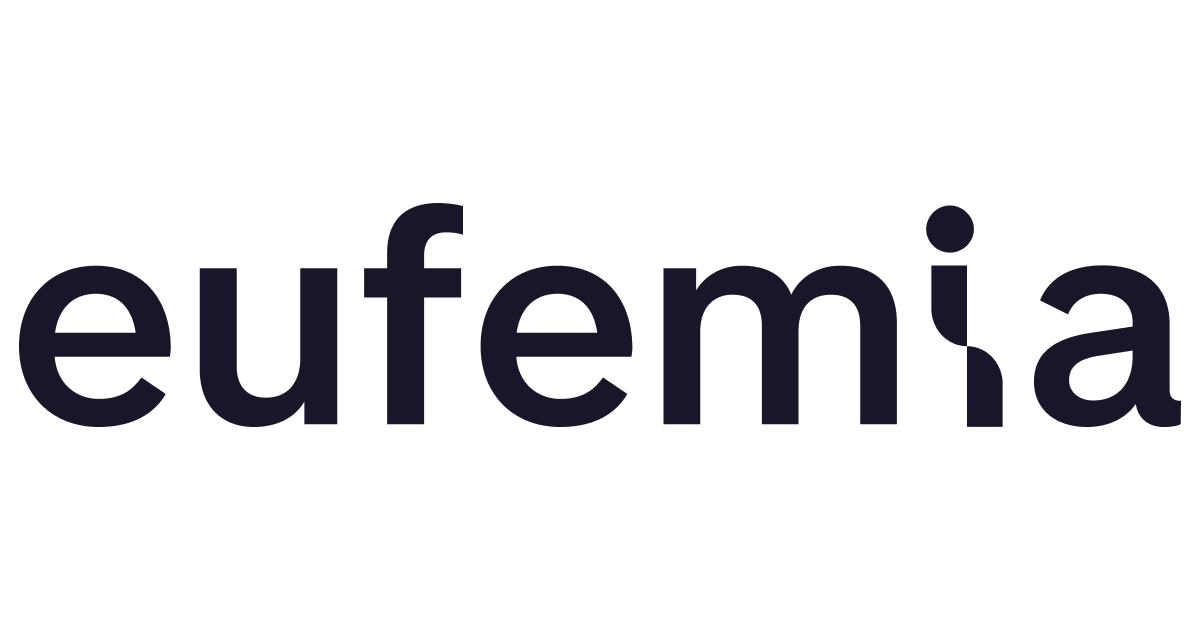
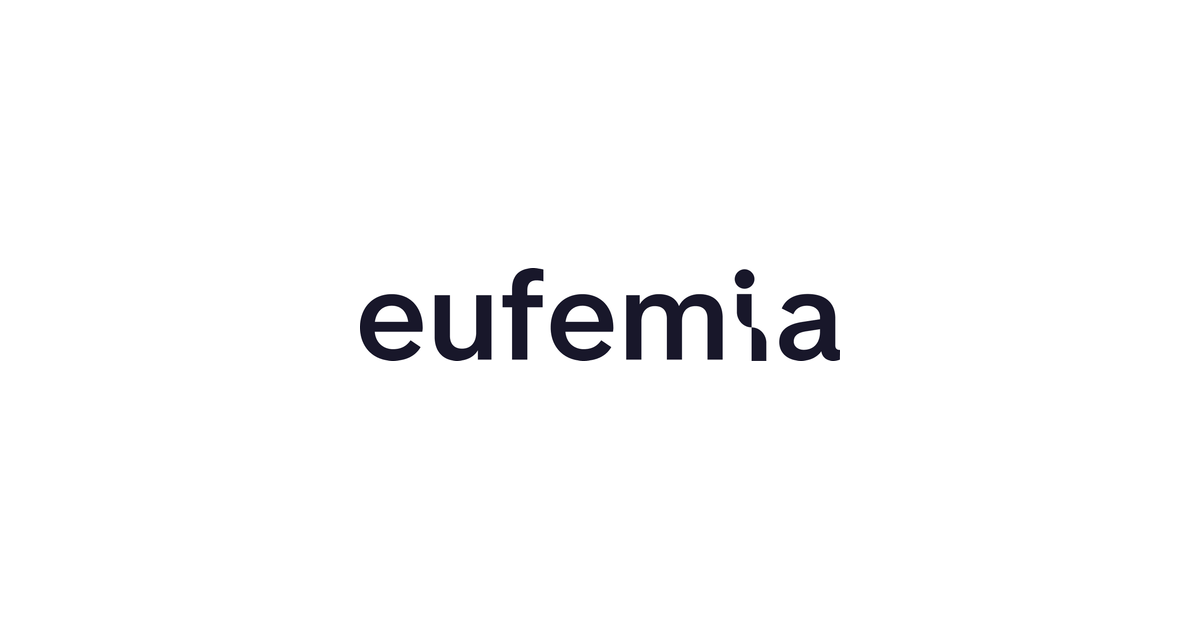
Restore the Portal default social preview image

Changed region(s): [[0.0, 0.3016, 0.9867, 0.6937]]

diff --git a/packages/dnb-design-system-portal/vite/__tests__/prod/prerender-utils.test.ts b/packages/dnb-design-system-portal/vite/__tests__/prod/prerender-utils.test.ts
@@ -691,7 +691,7 @@ describe('prerender-utils', () => {
       expect(result).toContain('Eufemia Design System is the go-to place')
     })
 
-    it('omits images on pages without a screenshot', () => {
+    it('uses the default image on pages without a screenshot', () => {
       const result = injectHtml(
         template,
         '<h1>Guide</h1>',
@@ -703,10 +703,12 @@ describe('prerender-utils', () => {
           description: 'Helpful guidance.',
         }
       )
-      expect(result).not.toContain('property="og:image"')
-      expect(result).not.toContain('name="twitter:image"')
+      expect(result).toContain(
+        'property="og:image" content="https://eufemia.dnb.no/dnb/og-image.png?v=2"'
+      )
+      expect(result).toContain('name="twitter:image"')
       expect(result).not.toContain('twitter:label')
-      expect(result).not.toContain('name="twitter:card"')
+      expect(result).toContain('content="summary_large_image"')
       expect(result).toContain(
         '<meta name="twitter:description" content="Helpful guidance.">'
       )

diff --git a/packages/dnb-design-system-portal/vite/client/index.html b/packages/dnb-design-system-portal/vite/client/index.html
@@ -7,7 +7,7 @@
   <title id="head-title">Eufemia Portal (Vite Dev)</title>
   <meta id="head-description" name="description"
     content="Eufemia Design System is the go-to place for all who has to design, develop and make digital WEB applications for DNB." />
-  <link rel="icon" type="image/png" sizes="64x64" href="/favicon.png" />
+  <link rel="icon" type="image/svg+xml" href="/favicon.svg" />
   <link rel="apple-touch-icon" sizes="180x180" href="/dnb/apple-touch-icon.png" />
 </head>
 

diff --git a/packages/dnb-design-system-portal/vite/prod/prerender-utils.ts b/packages/dnb-design-system-portal/vite/prod/prerender-utils.ts
@@ -362,7 +362,7 @@ export function injectHtml(
       `<meta property="og:title" content="${formattedTitle}">`,
       `<meta property="og:description" content="${desc}">`,
       `<meta property="og:url" content="${fullUrl}">`,
-      ...socialImageTags(meta.url, socialImages),
+      ...socialImageTags(meta.url, socialImages, siteUrl),
       ...socialDetailTags(
         meta.title ? meta.title + ' | Eufemia' : 'Eufemia',
         meta.description || defaultDescription

diff --git a/packages/dnb-design-system-portal/scripts/og-images/README.md b/packages/dnb-design-system-portal/scripts/og-images/README.md
@@ -1,6 +1,6 @@
 # Portal social images
 
-Component, extension and element pages with a visible, compact live demo are eligible. The Demos tab is preferred when available. Mark one ComponentBox with socialPreview to choose its specimen explicitly. Otherwise, the first demo is used. The selected demo is tried at compact, wider and native widths before it is rejected. Selection never falls through to a later demo or a nested field group. Hidden or clipped examples get no image and are reported in the generator output. Choose a populated example explicitly for Value pages, or a suitable static example for animated components. Tabs reuse their parent image.
+Component, extension and element pages with a visible, compact live demo are eligible. The Demos tab is preferred when available. Mark one ComponentBox with socialPreview to choose its specimen explicitly. Otherwise, the first demo is used. The selected demo is tried at compact, wider and native widths before it is rejected. Selection never falls through to a later demo or a nested field group. Hidden or clipped examples get no screenshot and are reported in the generator output. Choose a populated example explicitly for Value pages, or a suitable static example for animated components. Tabs reuse their parent image.
 
     <ComponentBox socialPreview>
       <Button text="Continue" />
@@ -10,7 +10,7 @@ Use socialPreview="stack" for a horizontal flex group that should stack only in 
 
 Only one demo per page may be marked. Multiple markers are reported as an error. Reordering other examples does not change an explicitly marked preview.
 
-Pages provide their title and description through Open Graph and Twitter Card metadata. An image is included only when a real component screenshot is available. Other pages have text previews. No logo fallback or extra label/value fields are emitted.
+Pages provide their title and description through Open Graph and Twitter Card metadata. Pages with a component screenshot use it. Other pages use the shared Eufemia wordmark at /dnb/og-image.png. The 1200 × 630 fallback keeps its 480px-wide wordmark centered for square and landscape crops. The fallback is a static Portal asset, so it changes with normal Portal deployments and does not need weekly generation. No extra label/value fields are emitted.
 
 Demos are captured at 4× resolution. Unused outer space is trimmed. Screenshots are centered on a 1200 × 630 canvas with the light demo grid, with the complete specimen inside a central 534 × 534 area. This retains the specimen in centered crops from 1:1 through 2:1. Receiving apps control the actual crop. Small specimens can grow up to 2× their normal size in a 600px-wide preview; large specimens shrink proportionally. Transparent captures preserve the component over the grid, including its opaque surfaces. PNGs are optimized losslessly.
 
@@ -20,7 +20,7 @@ Generated PNGs and captures are not committed to the code branch or an assets br
 
 The CDN catalogue at /og/manifest.json has a short cache lifetime. PNGs use content hashes and old image URLs are retained. The publisher uploads PNGs with a one-year immutable cache policy. The internal GitHub Enterprise assets repository publishes through AWS OIDC. Only its restore and publish jobs can use AWS, and they run Node built-ins and the AWS CLI. The renderer and its workspace dependencies run in a separate job without AWS access, and the publish job validates the rendered catalogue and PNGs before uploading them. The public workflow dispatches the internal publisher using GHE_ASSETS_DEPLOY_REPO and GHE_DEPLOY_PAT; the public workflow has no AWS credentials. The internal publisher requires the requested source revision to match current public main before running the renderer. The main asset publisher reserves og/ and cannot delete it while syncing fonts, icons or release assets.
 
-Release and PR preview builds fetch the CDN manifest and install only its image references. PNGs are not downloaded into the Portal build. If the manifest cannot be fetched, the build reports a warning and its pages use text previews; the next OG publication adds the images to the deployed Portal. The checked-in static/og/manifest.json is empty. Actions artifacts are retained for review reports and the deployed Portal snapshot, not as the authoritative image catalogue.
+Release and PR preview builds fetch the CDN manifest and install only its image references. PNGs are not downloaded into the Portal build. If the manifest cannot be fetched, the build reports a warning and its pages use the default image; the next OG publication adds the images to the deployed Portal. The checked-in static/og/manifest.json is empty. Actions artifacts are retained for review reports and the deployed Portal snapshot, not as the authoritative image catalogue.
 
 ## Weekly and manual updates
 
